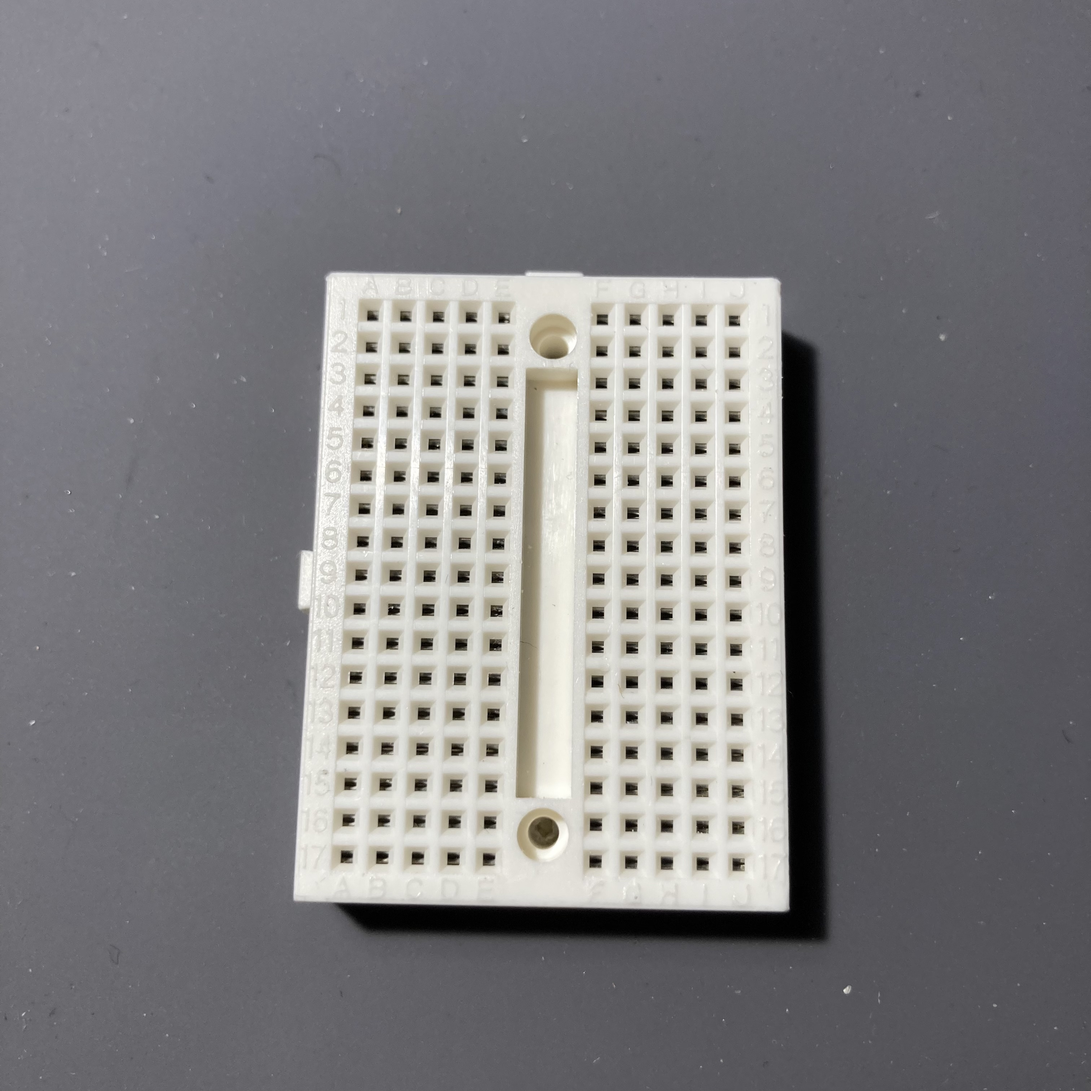
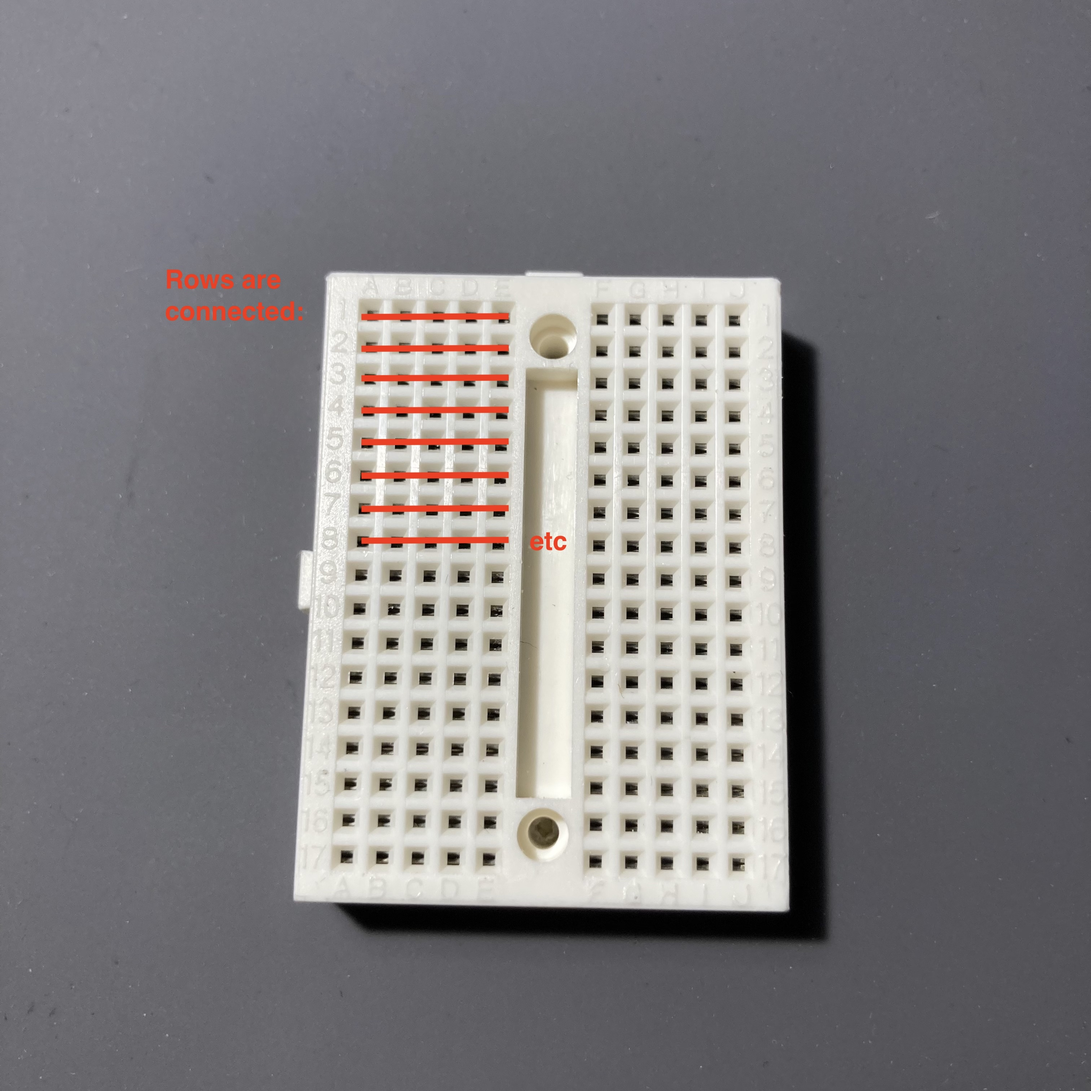
amplifiers

Changed region(s): [[0.3419, 0.2798, 0.4663, 0.4974], [0.1554, 0.2487, 0.2798, 0.3108], [0.4974, 0.4663, 0.5284, 0.4974]]

diff --git a/workshops/amps/amps.md b/workshops/amps/amps.md
@@ -2,11 +2,11 @@
 
 ### Materials
 - MAX98306 solid-state amplifier breakout board (pre-soldered)
+- JST jack breakout board
 - Speakers (4Ω or higher and rated for at least 3W)
 - 1/8" TRS audio jack (panel mount)
 - 18 or 20 gauge speaker wire
 - Solid-core wires (red, black, green)
-- Breadboard 2-pole terminal blocks (optional)
 - Mini breadboard
 - 3x AA battery holder
 - 3x AA batteries
@@ -68,6 +68,8 @@ A TRS jack is the counterpart to a TRS (stereo) cable. Inside the socket, it con
 Everything will be assembled on a breadboard. A breadboard is a helpful tool for prototyping and making quick connections—every row of holes is eletrically connected, so by inserting wires into the holes, a circuit can be made without soldering. This is especially helpful with "breakout boards" that have a row of pins. Inserting a wire in the row next to a pin makes a connection.
 ![](media/7.jpg)
 
+1. Use screws, the adhesive backing, or some other method to attach the breadboard where you need it. Or just leave it loose if you are prototyping.
+
 1. Insert the MAX98306 circuit board into the breadboard. Leave as much room as possible along the side with the pins so that you have room to plug things in.
 ![](media/8.jpg)
 
@@ -83,28 +85,23 @@ Everything will be assembled on a breadboard. A breadboard is a helpful tool for
 1. Finally, use the short jumper wire to connect L- to R-
 ![](media/11.jpg)
 
-1. Insert three AA batteries into the battery pack, and secure it closed with the included screws.
-1. If necessary, strip off additional insulation of the two leads on the battery pack so that 1/4" of bare wire is showing.
-1. Insert the black lead of the battery pack into the row next to the pin labeled GND
-1. Insert the red lead of the battery pack into the row next to the pin labeled VDD
+1. Plug the JST jack breakboard into the breadboard such that the + pin lines up with VDD on the amplifier board and the - pin lines up with GND. This will result in the edges of the boards being flush with one another. Be careful to get this right, as putting this in the wrong place can potentially fry the amp.
 ![](media/12.jpg)
 
-1. If these wires are loose, you may need to use a terminal block. Place this into the breadboard, and secure the wires in the same way that you secured the speaker wire.
-
-
-at top, or "in the future": use the sticker or screws to attach to your project housing
-
+1. Insert three AA batteries into the battery holder and secure it. Plug it into the JST jack. (If you ever need to unplug the battery holder, make sure to pull on the white part of the plug, not the wires)
+![](media/13.jpg)
 
 
 ## Use
 
-The jumper / gain
+1. Use an 1/8" TRS (stereo) cable to plug your amp into an audio player of some kind. Turn the battery pack to ON, play audio, and you should hear sound.
+![](media/14.jpg)
 
-Line level
+1. By default, the amp is set to 9dB of gain. By placing the include jumper plug on the gain headers of the amplifier board, you can increase the volume. Most likely, you'll want to have this at the highest setting at which your speakers do not distort when the loudest sound from source you are using is played. This might take some experimentation.
+![](media/15.jpg)
 
 
-
-
-###
-
+<!--
+###	
 https://www.hairballaudio.com/blog/resources/diy-resources/balanced-and-differential
+-->

diff --git a/plan.md b/plan.md
@@ -1,8 +1,15 @@
 # Introduction to Sound Art
 
-## electrets
+## electrets / mems
 
 what is the response range? could they actually work for infrasound/ultrasound?? that would be a whole unit.
+
+wait, no. that's MEMS.
+https://www.sparkfun.com/products/18011
+https://www.sparkfun.com/products/19389
+https://www.adafruit.com/product/2716
+
+...except these don't have that range. bummer.
 
 
 ## circuits

diff --git a/NEXT.md b/NEXT.md
@@ -26,6 +26,9 @@ What is Audio! electrical signal that fluctuates in a way that is analogous to a
 digital? == measurements
 
 
+==> should actually spend time to respond (not necessarily critique) the exercises (what are we hearing?)
+
+
 ### contact mics
 
 
